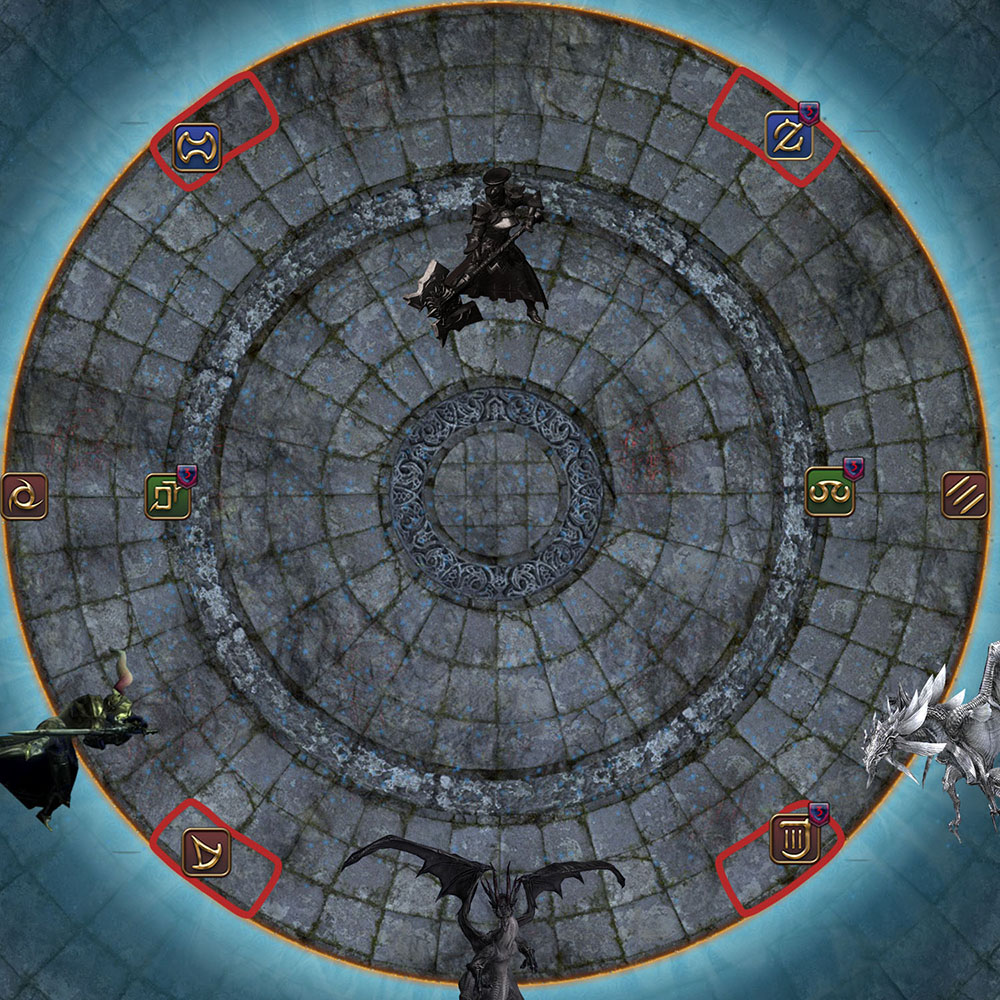
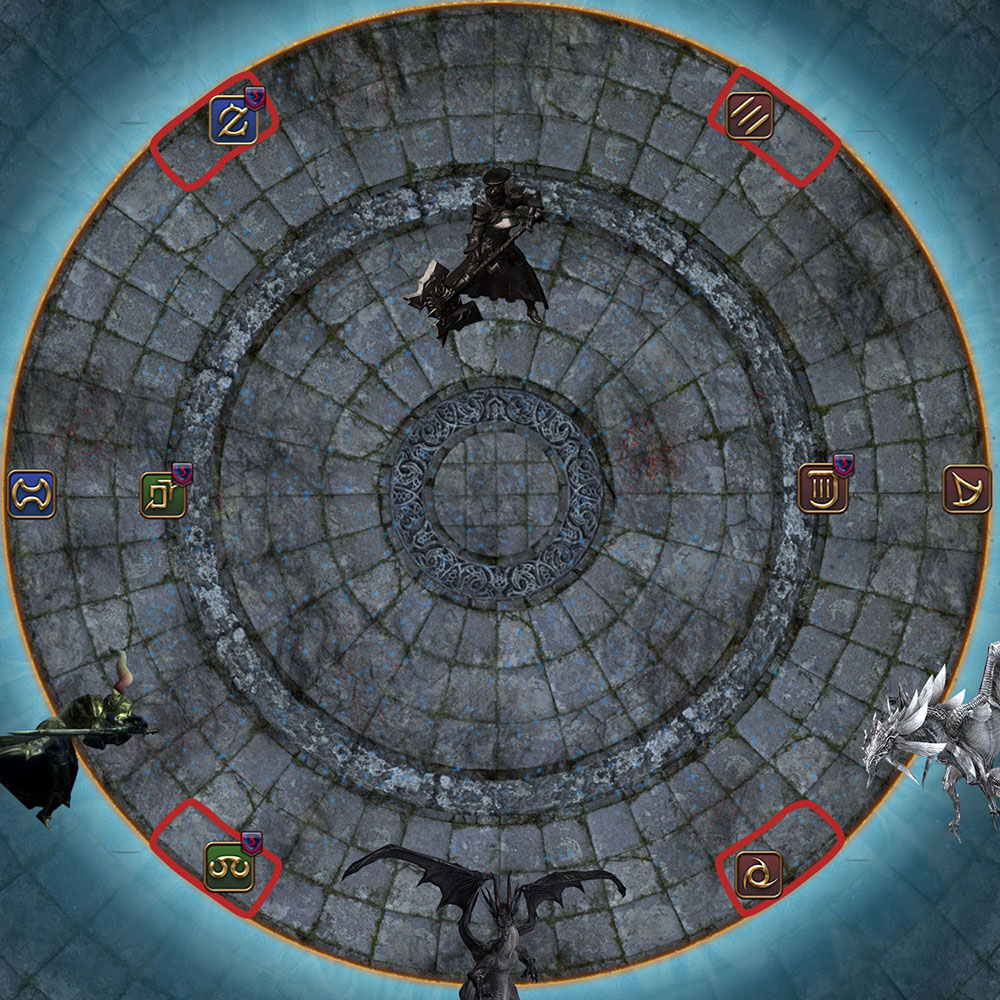
Small ajustments

diff --git a/guides/ultimates/DSR.md b/guides/ultimates/DSR.md
@@ -2,7 +2,7 @@
 layout: guides
 title: Dragonsong's Reprise | DSR
 imagePath: /assets/img/guides/ultimates/DSR/
-slideNumber: 24
+slideNumber: 25
 ---
 
 *Patch: 6.11  
@@ -726,9 +726,9 @@ Split in two groups of 4, Tanks/Healers to the left and DPS to the right and for
 
 Pattern examples:
 {% assign slideCounter = slideCounter | plus: 1 %}
-{% include slideshow.html imgLink="doom22.jpg;doom31.jpg" imgDesc="2/2 pattern;3/1 pattern" slideNumber=slideCounter %}
+{% include slideshow.html imgLink="doom31.jpg;doom22.jpg" imgDesc="3/1 pattern;2/2 pattern" slideNumber=slideCounter %}
 
-Be mindful, the players at intercardinals must stand on the tiles surrounded in red in order to dodge **Spear of the Fury** and **Twisting Dive**:
+Be mindful, the players at intercardinals must stand on the tiles surrounded in red in order to dodge **Spear of the Fury** and **Twisting Dive**. Here with the same 3/1 pattern shown above:
 <img class='soloImg' src='{{ page.imagePath | append: 'doom.jpg'}}'>
 
 *Darkscale* will cast **Cauterize**, diving in the North/South axis. *Ser Zephirin* and *Vedrfolnir* will respectively cast **Spear of the Fury** and **Twisting Dive**. Their will attack diagonally, NE->SW and NW->SE, but slightly tilted towards the East and West. (*Check diagram n°4 below to see the positions and line AoEs.*)  
